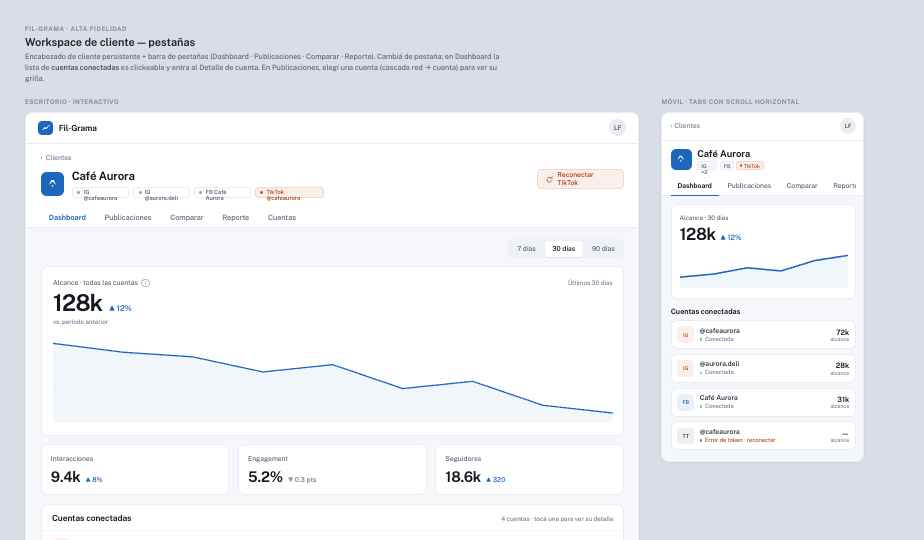
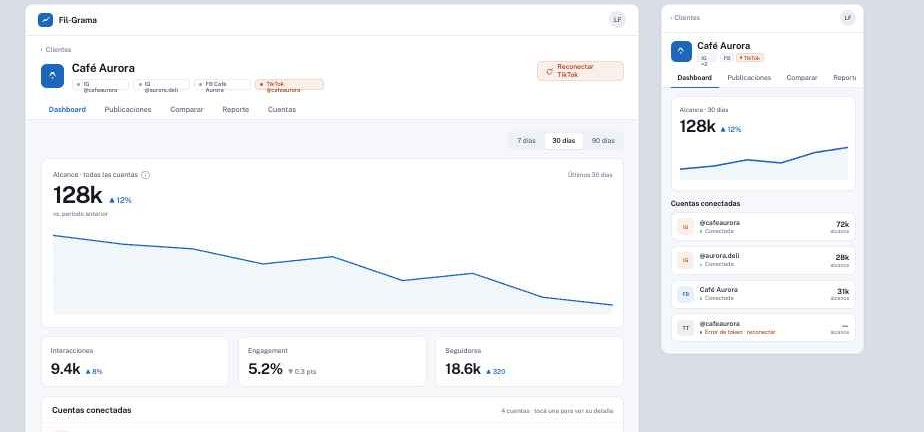
Corregir capturas de Fil-grama: quitar cortes y anotaciones de diseño

diff --git a/fil-grama.html b/fil-grama.html
@@ -113,12 +113,11 @@
   .statcard p{font-size:14px;color:var(--slate,#475569);margin:14px 0 0}
 
   /* capturas */
-  .shots{display:grid;grid-template-columns:1.15fr .85fr;gap:18px;margin-top:24px}
+  .shots{display:grid;grid-template-columns:1fr 1fr;gap:18px;margin-top:24px}
   @media(max-width:820px){.shots{grid-template-columns:1fr}}
   .shot{background:var(--surface);border:1px solid var(--line);border-radius:16px;overflow:hidden;box-shadow:var(--shadow-soft)}
   .shot img{width:100%;display:block}
   .shot .cap{padding:12px 16px;font-size:13px;color:var(--muted)}
-  .shot-stack{display:flex;flex-direction:column;gap:18px}
 
   .ready{display:grid;grid-template-columns:repeat(3,1fr);gap:14px;margin-top:18px}
   @media(max-width:820px){.ready{grid-template-columns:1fr 1fr}}
@@ -311,21 +310,15 @@
   <div class="wrap">
     <h2>Producto</h2>
     <p class="h2sub">Algunas pantallas del diseño de alta fidelidad</p>
-    <p class="lede">Capturas del diseño de la plataforma: dashboard por cliente, vista de todas las cuentas y comparación de layouts desktop/mobile — incluyendo el estado real de una cuenta con reconexión pendiente.</p>
+    <p class="lede">Capturas del diseño de la plataforma: dashboard por cliente en desktop y mobile, y la vista de todos los clientes de la agencia — incluyendo el estado real de una cuenta con reconexión pendiente.</p>
     <div class="shots">
       <div class="shot">
         <img src="assets/filgrama/dashboard-workspace.jpg" alt="Dashboard de cliente en Fil-Grama, vista desktop y mobile, con una cuenta de TikTok en estado de reconexión">
         <div class="cap">Workspace de cliente: dashboard con alcance, interacciones, engagement y seguidores, más el detalle de cuentas conectadas por red — en desktop y mobile.</div>
       </div>
-      <div class="shot-stack">
-        <div class="shot">
-          <img src="assets/filgrama/lista-clientes.jpg" alt="Lista de clientes de la agencia en Fil-Grama con métricas resumidas por cliente">
-          <div class="cap">Home: lista de clientes de la agencia con métrica resumen configurable.</div>
-        </div>
-        <div class="shot">
-          <img src="assets/filgrama/dashboard-cliente.jpg" alt="Dashboard de cliente de Fil-Grama con filtro por red y por rango de fechas">
-          <div class="cap">Dashboard con filtro por red (Todas / IG / FB / TikTok) y por rango de días.</div>
-        </div>
+      <div class="shot">
+        <img src="assets/filgrama/lista-clientes.jpg" alt="Lista de clientes de la agencia en Fil-Grama con métricas resumidas por cliente, en desktop y mobile">
+        <div class="cap">Home: lista de clientes de la agencia con métrica resumen configurable, en desktop y mobile.</div>
       </div>
     </div>
     <p class="disc">Capturas del diseño de producto en alta fidelidad; algunos valores de métricas son datos de ejemplo usados durante el diseño, no cifras de clientes reales.</p>
